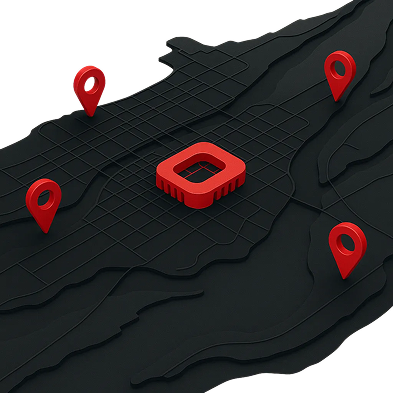
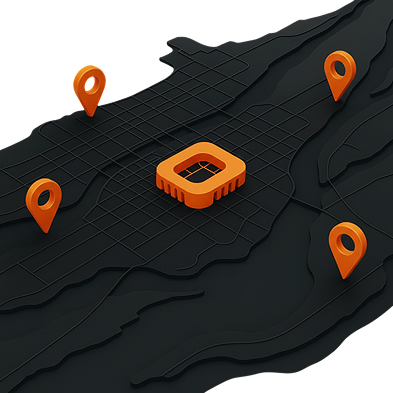
init

diff --git a/src/screens/SettingsScreen.tsx b/src/screens/SettingsScreen.tsx
@@ -46,9 +46,9 @@ export default function SettingsScreen() {
 
   const onShare = () => {
     Share.share({
-      title: 'Slay Ground Motion Way',
+      title: 'TO City TO Motion Guide',
       message:
-        'Slay Ground Motion Way — offline guide with sports places, routes and daily facts. All data stays on your device.',
+        'TO City TO Motion Guide — offline guide with sports places, routes and daily facts. All data stays on your device.',
     });
   };
 
@@ -106,7 +106,7 @@ export default function SettingsScreen() {
             <View style={styles.aboutTop}>
               <View style={{ flex: 1, paddingRight: 12 }}>
                 <Text style={[styles.aboutP, { lineHeight: S.pLine, marginBottom: 0 }]}>
-                  Slay Ground Motion Way is a sports tour guide in Kanawha, created for those who live on the move.
+                  TO City TO Motion Guide is a sports tour guide in Kanawha, created for those who live on the move.
                 </Text>
               </View>
 
@@ -175,7 +175,7 @@ const styles = StyleSheet.create({
   row: {
     backgroundColor: 'rgba(12,12,12,0.92)',
     borderWidth: 1,
-    borderColor: '#D0453B',
+    borderColor: '#BB7C0F',
     paddingHorizontal: 18,
     flexDirection: 'row',
     alignItems: 'center',
@@ -187,7 +187,7 @@ const styles = StyleSheet.create({
     width: 48,
     height: 48,
     borderRadius: 14,
-    backgroundColor: 'rgba(210,75,58,0.9)',
+    backgroundColor: 'rgba(142, 105, 18, 0.9)',
     alignItems: 'center',
     justifyContent: 'center',
   },
@@ -195,7 +195,7 @@ const styles = StyleSheet.create({
   toggleWrap: { flexDirection: 'row', alignItems: 'center', gap: 10 },
   toggleTxt: { color: '#fff', fontWeight: '700' },
   aboutTitle: { color: '#fff', fontWeight: '800', marginTop: 10, marginBottom: 10 },
-  aboutCard: { backgroundColor: 'rgba(12,12,12,0.92)', borderWidth: 1, borderColor: '#D0453B' },
+  aboutCard: { backgroundColor: 'rgba(12,12,12,0.92)', borderWidth: 1, borderColor: '#BB7C0F' },
   aboutTop: { flexDirection: 'row', alignItems: 'flex-start' },
   aboutP: { color: '#E8E8E8', marginBottom: 10 },
   logoWrap: {
@@ -205,7 +205,7 @@ const styles = StyleSheet.create({
     alignItems: 'center',
     justifyContent: 'center',
   },
-  shareBtn: { marginTop: 14, backgroundColor: '#D24B3A', alignItems: 'center', justifyContent: 'center' },
+  shareBtn: { marginTop: 14, backgroundColor: '#BB7C0F', alignItems: 'center', justifyContent: 'center' },
   shareIcon: { color: '#fff', fontWeight: '800' },
   curtain: { position: 'absolute', bottom: 0, left: 0, right: 0 },
 });

diff --git a/src/screens/HomeScreen.tsx b/src/screens/HomeScreen.tsx
@@ -211,14 +211,14 @@ const styles = StyleSheet.create({
     paddingHorizontal: IS_SMALL ? 10 : 12,
     paddingVertical: IS_SMALL ? 6 : 8,
     borderWidth: 1,
-    borderColor: '#7a2b25',
+    borderColor: '#bb7c0fff',
   },
   avatarWrap: {
     width: IS_SMALL ? 32 : 36,
     height: IS_SMALL ? 32 : 36,
     borderRadius: IS_SMALL ? 16 : 18,
     borderWidth: 1,
-    borderColor: '#D0453B',
+    borderColor: '#bb7c0fff',
     overflow: 'hidden',
     marginRight: 10,
   },
@@ -244,7 +244,7 @@ const styles = StyleSheet.create({
     paddingHorizontal: 16,
     paddingVertical: IS_SMALL ? 8 : 10,
     borderRadius: 20,
-    backgroundColor: '#D24B3A',
+    backgroundColor: '#bb7c0fff',
   },
   factBtnText: { color: '#fff', fontWeight: '700', fontSize: IS_SMALL ? 14 : 15 },
   girl: { width: IS_SMALL ? 120 : 140, height: IS_SMALL ? 104 : 120, marginLeft: 8, borderRadius: 14 },
@@ -252,7 +252,7 @@ const styles = StyleSheet.create({
   sectionHeader: { flexDirection: 'row', alignItems: 'center', marginBottom: IS_SMALL ? 8 : 10 },
   sectionTitle: { color: '#fff', fontWeight: '800' },
   openAllBtn: {
-    backgroundColor: '#C7493A',
+    backgroundColor: '#bb7c0fff',
     paddingHorizontal: IS_SMALL ? 14 : 18,
     paddingVertical: IS_SMALL ? 10 : 12,
     borderRadius: 18,
@@ -264,7 +264,7 @@ const styles = StyleSheet.create({
     backgroundColor: 'rgba(12,12,12,0.95)',
     borderRadius: 24,
     borderWidth: 1,
-    borderColor: '#7a2b25',
+    borderColor: '#bb7c0fff',
     padding: IS_SMALL ? 10 : 12,
   },
   placeImage: { width: '100%', height: PLACE_IMG_H, borderRadius: 16, marginBottom: IS_SMALL ? 8 : 10 },
@@ -275,7 +275,7 @@ const styles = StyleSheet.create({
     width: IS_SMALL ? 44 : 48,
     height: IS_SMALL ? 44 : 48,
     borderRadius: 12,
-    backgroundColor: '#D24B3A',
+    backgroundColor: '#bb7c0fff',
     alignItems: 'center',
     justifyContent: 'center',
     marginLeft: 12,

diff --git a/src/screens/ProfileScreen.tsx b/src/screens/ProfileScreen.tsx
@@ -261,7 +261,7 @@ const styles = StyleSheet.create({
     backgroundColor: 'rgba(12,12,12,0.92)',
     paddingBottom: 16,
     borderWidth: 1,
-    borderColor: '#D0453B',
+    borderColor: '#bb7c0fff',
     shadowColor: '#000',
     shadowOpacity: 0.35,
     shadowRadius: 12,
@@ -272,7 +272,7 @@ const styles = StyleSheet.create({
   photoBox: {
     alignSelf: 'center',
     borderWidth: 1,
-    borderColor: '#D0453B',
+    borderColor: '#bb7c0fff',
     marginBottom: 18,
   },
   photoInner: {
@@ -286,7 +286,7 @@ const styles = StyleSheet.create({
     position: 'absolute',
     right: 14,
     bottom: 14,
-    backgroundColor: '#D24B3A',
+    backgroundColor: '#bb7c0fff',
     alignItems: 'center',
     justifyContent: 'center',
     borderWidth: 1,
@@ -295,7 +295,7 @@ const styles = StyleSheet.create({
   badgeIcon: { color: '#fff', fontSize: 18, fontWeight: '800' },
 
   addWrap: { flex: 1, alignItems: 'center', justifyContent: 'center' },
-  addIcon: { color: '#D24B3A', fontSize: 34, marginBottom: 6 },
+  addIcon: { color: '#bb7c0fff', fontSize: 34, marginBottom: 6 },
   addText: { color: '#C9C9C9' },
 
   nameRow: { flexDirection: 'row', alignItems: 'center', gap: 10, marginTop: 6 },
@@ -322,14 +322,14 @@ const styles = StyleSheet.create({
   },
 
   editBtn: {
-    backgroundColor: '#D24B3A',
+    backgroundColor: '#bb7c0fff',
     alignItems: 'center',
     justifyContent: 'center',
   },
   editIcon: { color: '#fff', fontSize: 18, fontWeight: '800' },
 
   saveBtn: {
-    backgroundColor: '#D24B3A',
+    backgroundColor: '#bb7c0fff',
     alignItems: 'center',
     justifyContent: 'center',
   },

diff --git a/src/screens/PlaceDetailScreen.tsx b/src/screens/PlaceDetailScreen.tsx
@@ -182,7 +182,7 @@ const styles = StyleSheet.create({
     width: 48,
     height: 48,
     borderRadius: 16,
-    backgroundColor: 'rgba(210,75,58,0.85)',
+    backgroundColor: 'rgba(159, 115, 20, 0.85)',
     alignItems: 'center',
     justifyContent: 'center',
   },
@@ -196,7 +196,7 @@ const styles = StyleSheet.create({
     width: 48,
     height: 48,
     borderRadius: 16,
-    backgroundColor: 'rgba(210,75,58,0.85)',
+    backgroundColor: 'rgba(155, 117, 26, 0.85)',
     alignItems: 'center',
     justifyContent: 'center',
   },
@@ -214,7 +214,7 @@ const styles = StyleSheet.create({
     padding: IS_SMALL ? 20 : 26,
     borderRadius: 30,
     borderWidth: 1,
-    borderColor: '#7a2b25',
+    borderColor: '#bb7c0fff',
   },
 
   title: {
@@ -240,7 +240,7 @@ const styles = StyleSheet.create({
     padding: 22,
     borderRadius: 30,
     borderWidth: 1,
-    borderColor: '#7a2b25',
+    borderColor: '#bb7c0fff',
   },
 
   mapTitle: {
@@ -271,7 +271,7 @@ const styles = StyleSheet.create({
     width: IS_SMALL ? 58 : 66,
     height: IS_SMALL ? 58 : 66,
     borderRadius: 20,
-    backgroundColor: 'rgba(210,75,58,0.85)',
+    backgroundColor: 'rgba(155, 110, 20, 0.85)',
     alignItems: 'center',
     justifyContent: 'center',
   },

diff --git a/src/screens/RegistrationScreen.tsx b/src/screens/RegistrationScreen.tsx
@@ -127,7 +127,7 @@ const styles = StyleSheet.create({
     paddingTop: 18,
     paddingBottom: 16,
     borderWidth: 1,
-    borderColor: '#D0453B',
+    borderColor: '#BB7C0F',
     shadowColor: '#000',
     shadowOpacity: 0.35,
     shadowRadius: 12,
@@ -160,7 +160,7 @@ const styles = StyleSheet.create({
 
   photoBox: {
     borderWidth: 1,
-    borderColor: '#D0453B',
+    borderColor: '#bb7c0fff',
     borderRadius: 18,
     padding: 10,
     alignSelf: 'flex-start',
@@ -176,7 +176,7 @@ const styles = StyleSheet.create({
   photo: { width: '100%', height: '100%' },
 
   addWrap: { flex: 1, alignItems: 'center', justifyContent: 'center' },
-  addIcon: { color: '#D24B3A', fontSize: 34, marginBottom: 6 },
+  addIcon: { color: '#bb7c0fff', fontSize: 34, marginBottom: 6 },
   addText: { color: '#C9C9C9' },
 
   btn: {
@@ -184,7 +184,7 @@ const styles = StyleSheet.create({
     width: '92%',
     minHeight: 52,
     borderRadius: 26,
-    backgroundColor: '#D24B3A',
+    backgroundColor: '#bb7c0fff',
     alignItems: 'center',
     justifyContent: 'center',
     marginTop: 8,

diff --git a/src/screens/OnboardingScreen.tsx b/src/screens/OnboardingScreen.tsx
@@ -29,7 +29,7 @@ const SLIDES = [
     img: require('../assets/onb1.png'),
     title: 'Hello from\nMei Lin',
     text:
-      "Hello! I'm Mei Lin, your guide at Slay Ground. Together we'll explore the sporting venues of Kanawha — from the fields to the stadiums, where you can feel the real energy of movement.",
+      "Hello! I'm Mei Lin, your guide at TO City TO Motion Guide. Together we'll explore the sporting venues of Kanawha — from the fields to the stadiums, where you can feel the real energy of movement.",
     cta: 'Hello, Mei',
   },
   {
@@ -223,7 +223,7 @@ const styles = StyleSheet.create({
     alignSelf: 'center',
     width: '92%',
     borderRadius: 26,
-    backgroundColor: '#D24B3A',
+    backgroundColor: '#bb7c0fff',
     alignItems: 'center',
     justifyContent: 'center',
   },

diff --git a/src/screens/GetTheFactsScreen.tsx b/src/screens/GetTheFactsScreen.tsx
@@ -183,7 +183,7 @@ const styles = StyleSheet.create({
     backgroundColor: 'rgba(12,12,12,0.92)',
     borderRadius: 26,
     borderWidth: 1.5,
-    borderColor: '#D24B3A',
+    borderColor: '#bb7c0fff',
     flexDirection: 'row',
     padding: 18,
     marginBottom: 24,
@@ -202,7 +202,7 @@ const styles = StyleSheet.create({
     width: 46,
     height: 46,
     borderRadius: 16,
-    backgroundColor: '#D24B3A',
+    backgroundColor: '#bb7c0fff',
     alignItems: 'center',
     justifyContent: 'center',
   },
@@ -215,7 +215,7 @@ const styles = StyleSheet.create({
     alignItems: 'center',
     justifyContent: 'center',
     marginBottom: 16,
-    backgroundColor: '#D24B3A',
+    backgroundColor: '#bb7c0fff',
   },
   newFactText: { color: '#fff', fontSize: 17, fontWeight: '700' },
 

diff --git a/src/screens/PlacesScreen.tsx b/src/screens/PlacesScreen.tsx
@@ -158,7 +158,7 @@ const styles = StyleSheet.create({
     backgroundColor: 'rgba(12,12,12,0.95)',
     borderRadius: 22,
     borderWidth: 1,
-    borderColor: '#7a2b25',
+    borderColor: '#bb7c0fff',
     padding: 12,
     marginBottom: 16,
     alignSelf: 'center',
@@ -176,7 +176,7 @@ const styles = StyleSheet.create({
     width: IS_SMALL ? 44 : 48,
     height: IS_SMALL ? 44 : 48,
     borderRadius: 14,
-    backgroundColor: '#D24B3A',
+    backgroundColor: '#bb7c0fff',
     alignItems: 'center',
     justifyContent: 'center',
     marginLeft: 12,

diff --git a/src/screens/SavedPlaceScreen.tsx b/src/screens/SavedPlaceScreen.tsx
@@ -127,7 +127,7 @@ const styles = StyleSheet.create({
     backgroundColor: '#0C0C0C',
     borderRadius: 22,
     borderWidth: 1,
-    borderColor: '#7a2b25',
+    borderColor: '#BB7C0F',
     overflow: 'hidden',
     marginBottom: 18,
   },
@@ -142,7 +142,7 @@ const styles = StyleSheet.create({
     width: 44,
     height: 44,
     borderRadius: 14,
-    backgroundColor: 'rgba(210,75,58,0.85)',
+    backgroundColor: 'rgba(141, 108, 16, 0.85)',
     alignItems: 'center',
     justifyContent: 'center',
   },

diff --git a/src/navigation/MainTabs.tsx b/src/navigation/MainTabs.tsx
@@ -83,7 +83,7 @@ const styles = StyleSheet.create({
     borderRadius: 40,
     backgroundColor: '#000000',
     borderWidth: 2,
-    borderColor: '#761813ff',
+    borderColor: '#bb7c0fff',
     paddingHorizontal: 8,
   },
   shadowIOS: {

diff --git a/android/app/src/main/java/com/tocitytomotionguide/MainActivity.kt b/android/app/src/main/java/com/tocitytomotionguide/MainActivity.kt
@@ -1,4 +1,4 @@
-package com.slay.ground.motion.way
+package com.tocitytomotionguide
 
 import com.facebook.react.ReactActivity
 import com.facebook.react.ReactActivityDelegate

diff --git a/android/app/src/main/java/com/tocitytomotionguide/MainApplication.kt b/android/app/src/main/java/com/tocitytomotionguide/MainApplication.kt
@@ -1,4 +1,4 @@
-package com.slay.ground.motion.way
+package com.tocitytomotionguide
 
 import android.app.Application
 import com.facebook.react.PackageList
